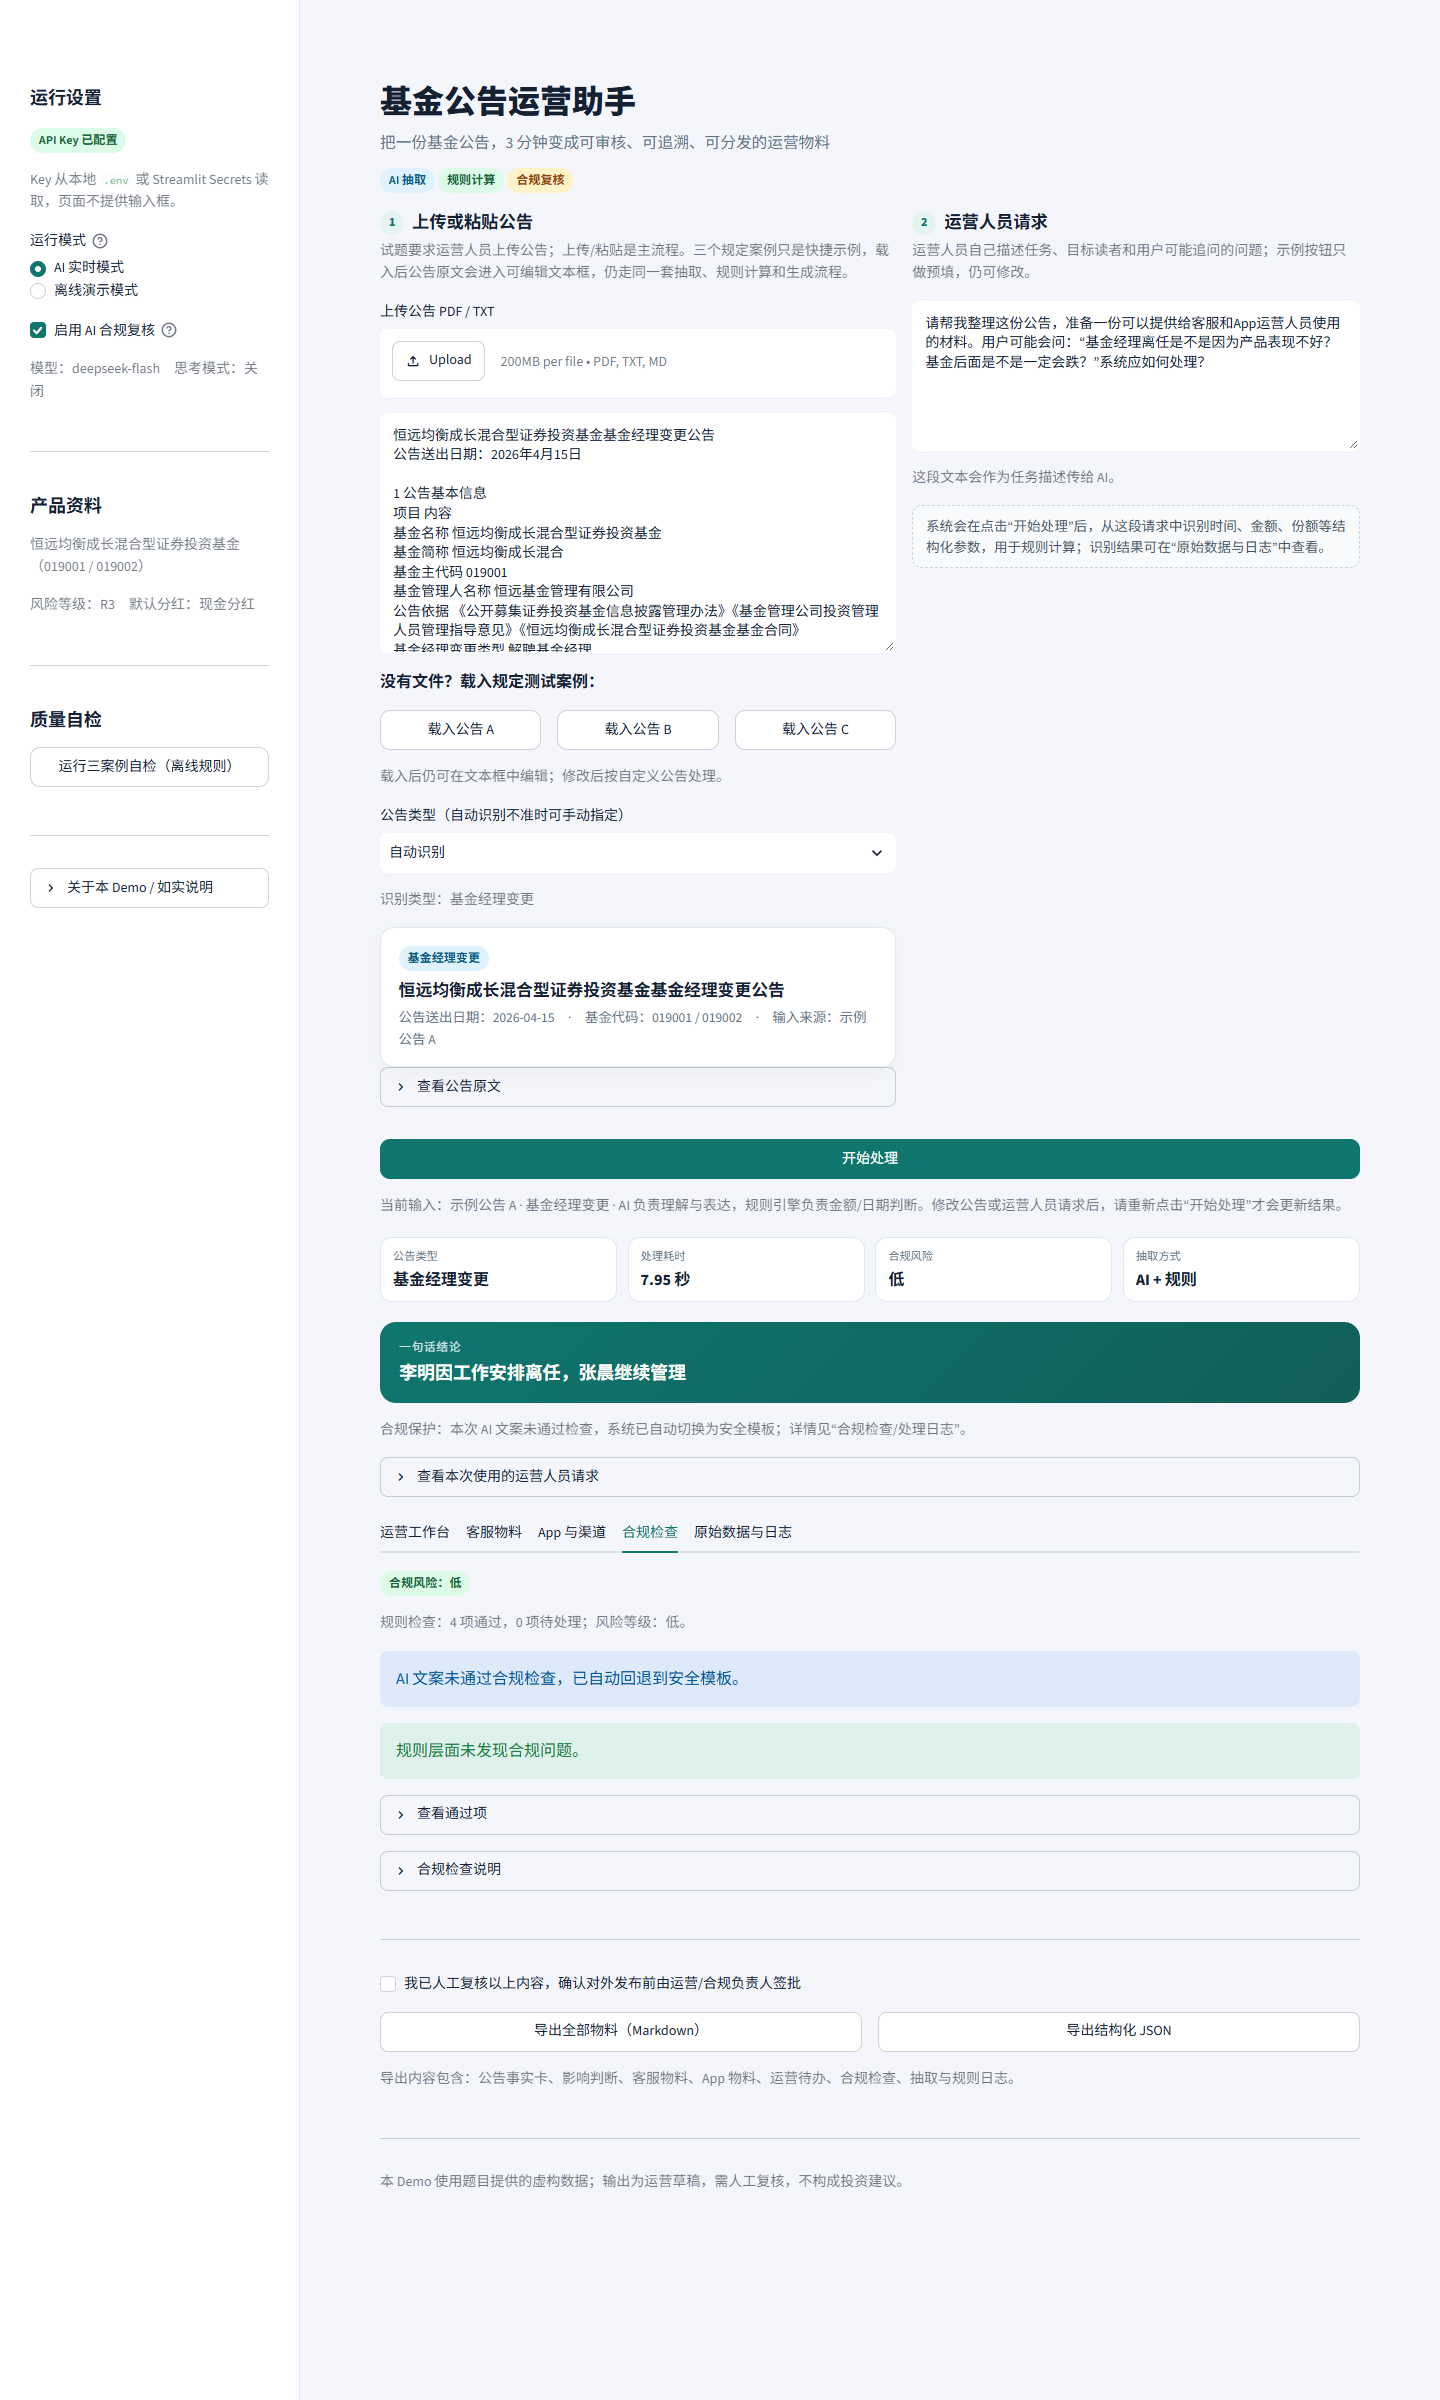
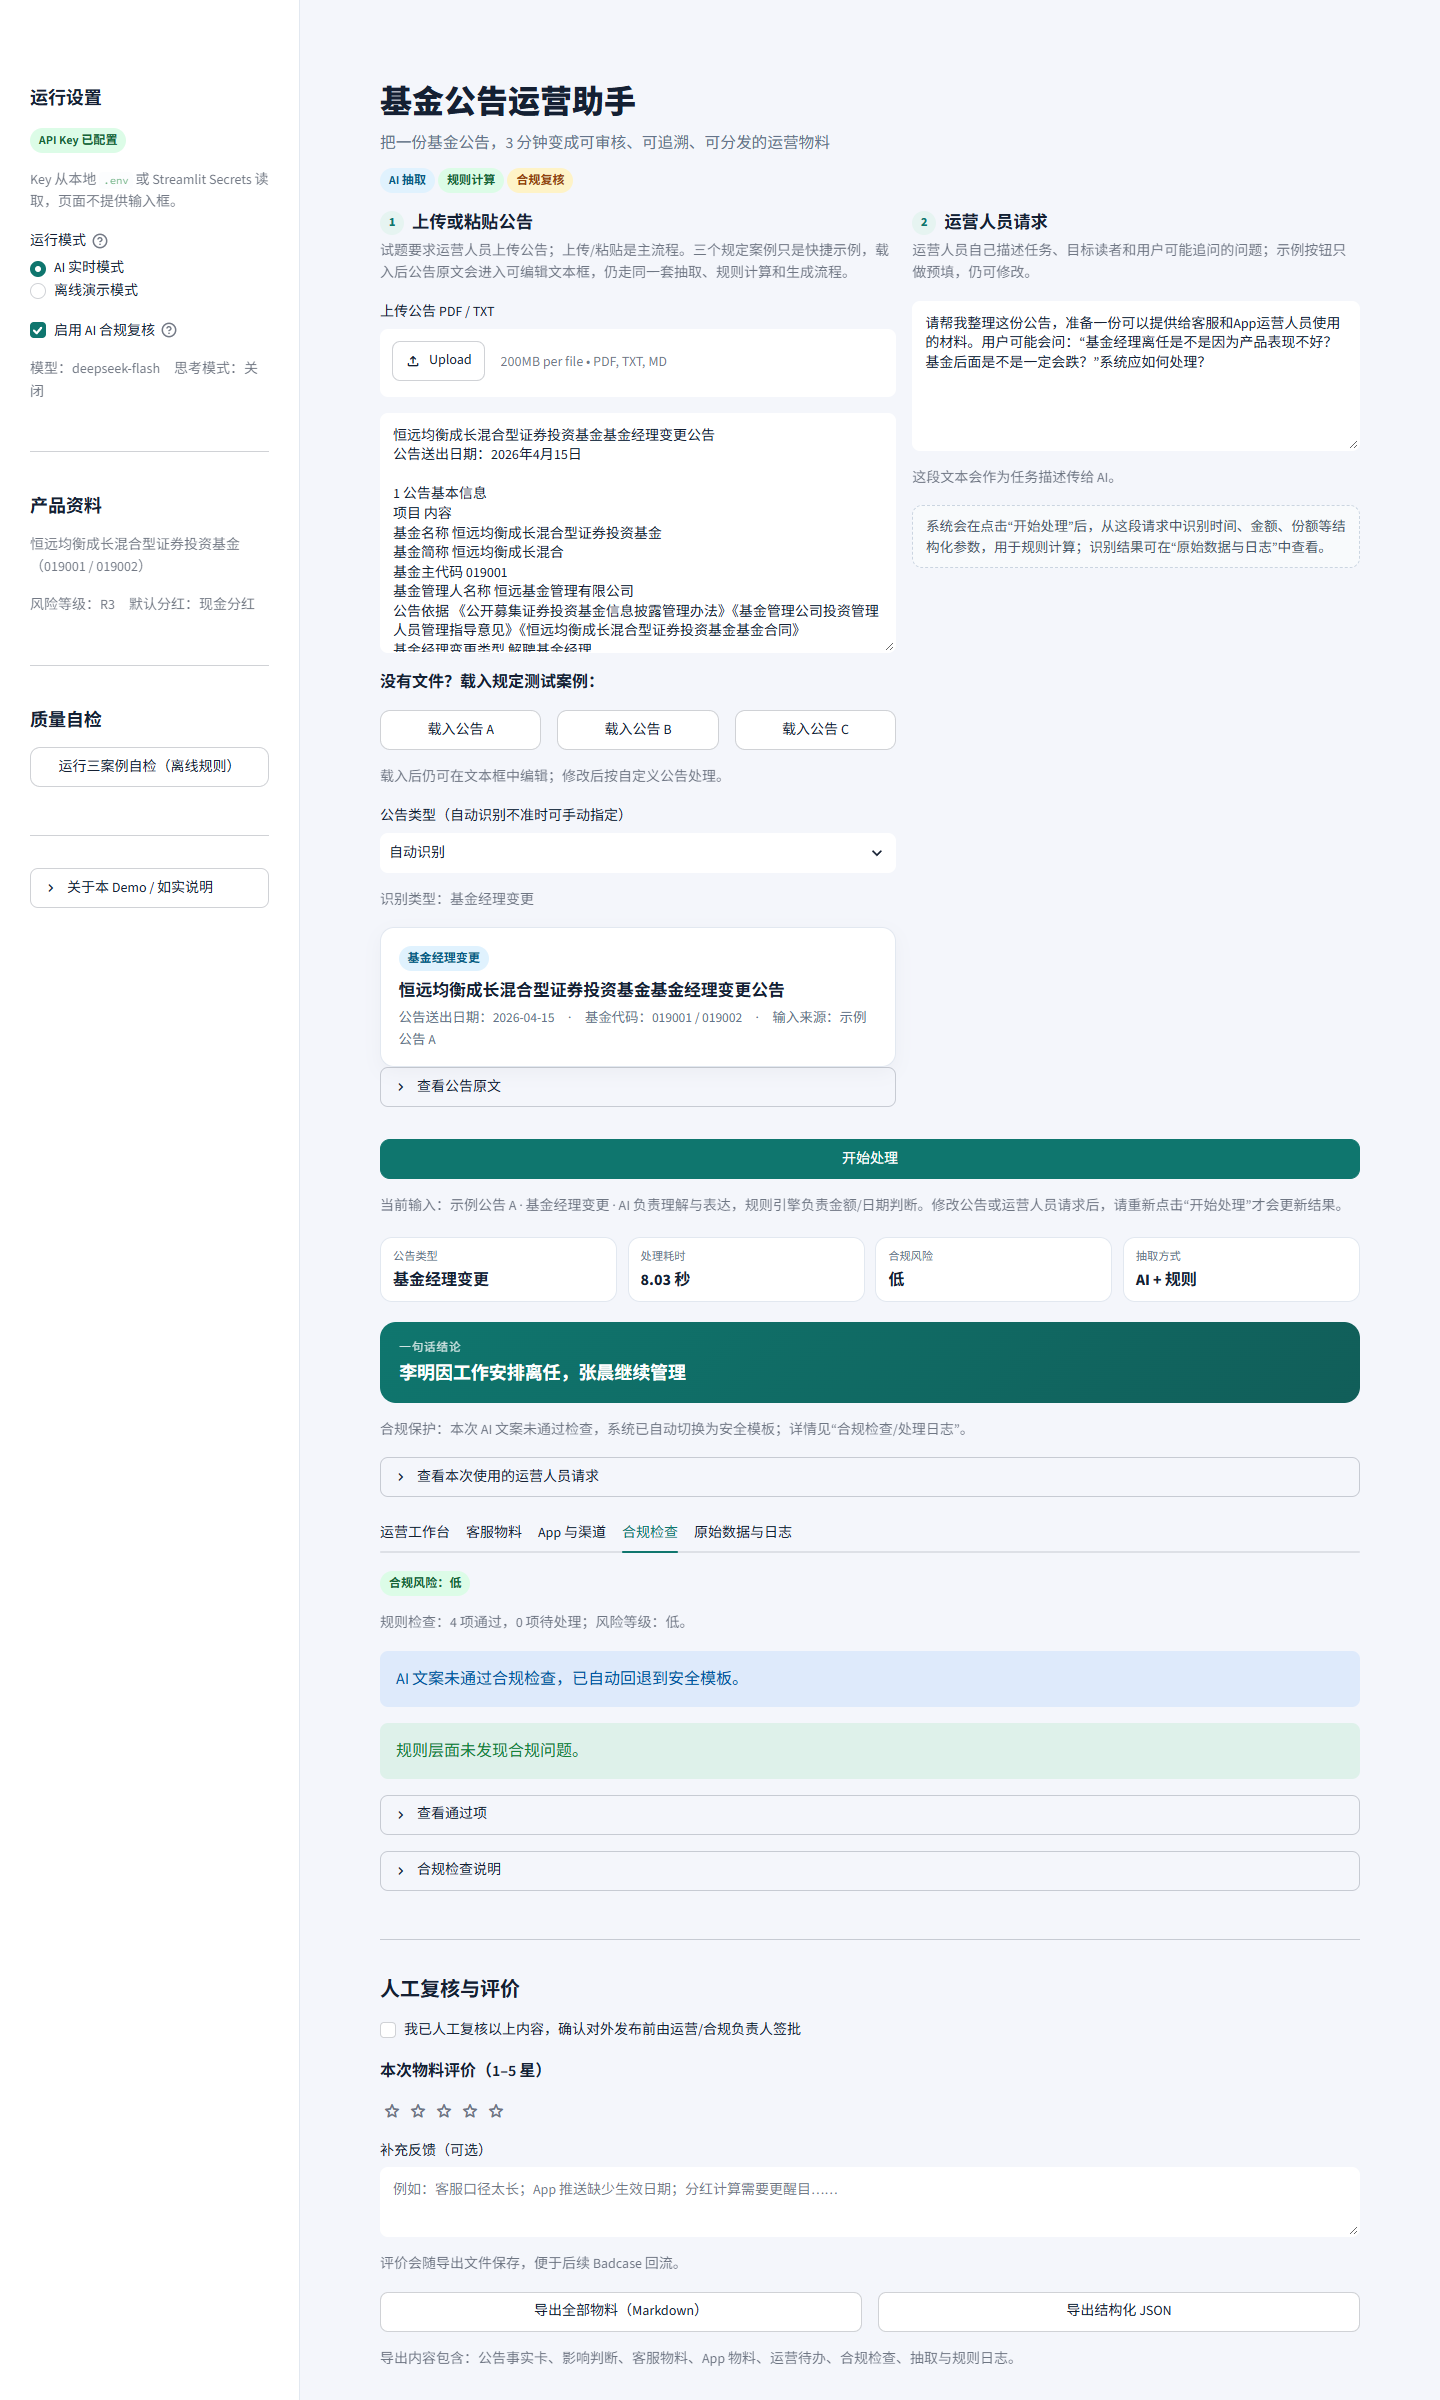
Add human review feedback (1-5 stars + comment)

diff --git a/docs/design.html b/docs/design.html
@@ -478,6 +478,7 @@
 <ul>
 <li>所有输出标注“运营草稿”，必须人工复核</li>
 <li>页面提供“我已人工复核”勾选，导出文件记录复核状态</li>
+<li>页面提供“人工复核与评价”：1–5 星物料评分 + 补充反馈，随导出文件保存，作为后续 Badcase 回流的信号</li>
 <li>合规风险为“高”时自动回退安全模板，并在页面与日志说明</li>
 <li>导出 Markdown/JSON，保留事实卡、规则过程、合规检查、模型用量，便于复盘</li>
 </ul>
@@ -834,7 +835,7 @@
 <li>离线模式：规则抽取 + 安全模板，可复现，不调用大模型</li>
 </ul>
 <h3 id="63-badcase">6.3 Badcase 回流（规划）</h3>
-<p>把“审核”变成“标注”：运营人员每次采纳（点赞）或打回（点踩）都是训练信号，回流后用于更新话术库、规则库与抽取模板，实现模型/规则的持续迭代。本 Demo 尚未实现该闭环。</p>
+<p>把“审核”变成“标注”：运营人员每次采纳（点赞）或打回（点踩）都是训练信号，回流后用于更新话术库、规则库与抽取模板，实现模型/规则的持续迭代。当前 Demo 已支持人工 1–5 星评分和补充反馈随导出文件保存；自动回流到优化池尚未实现。</p>
 <p>金融场景用户/投资者对 AI 首次出错极易流失信任，因此高风险问题强制人工、低置信转人工，本质是把“AI 不完美”用产品设计兜住，而非让用户承担错误成本。</p>
 <h2 id="7">7. 技术实现</h2>
 <h3 id="71">7.1 架构</h3>

diff --git a/app.py b/app.py
@@ -529,6 +529,8 @@ def build_export_markdown(
     app_title: str,
     app_body: str,
     reviewed: bool,
+    rating: int | None,
+    feedback_text: str,
 ) -> str:
     case = result["case"]
     announcement = result["announcement"]
@@ -536,6 +538,7 @@ def build_export_markdown(
     materials = result["materials"]
     compliance = result["compliance"]
     meta = result["meta"]
+    rating_label = "未评价" if rating is None else f"{rating + 1} 星"
 
     lines: list[str] = []
     lines.append(f"# 基金公告运营物料：{case['title']}")
@@ -641,6 +644,13 @@ def build_export_markdown(
     lines.append(f"- 总耗时：{meta.get('timings', {}).get('total_s', '')} 秒")
     lines.append(f"- 抽取耗时：{meta.get('timings', {}).get('extraction_s', '')} 秒")
     lines.append(f"- 生成耗时：{meta.get('timings', {}).get('generation_s', '')} 秒")
+    lines.append("")
+    lines.append("## 人工复核与评价")
+    lines.append("")
+    lines.append(f"- 复核状态：{'已完成' if reviewed else '未完成'}")
+    lines.append(f"- 物料评分：{rating_label}")
+    if feedback_text.strip():
+        lines.append(f"- 补充反馈：{feedback_text.strip()}")
     lines.append("")
     lines.append("---")
     lines.append("")
@@ -888,10 +898,25 @@ def render_result(result: dict, case_id: str) -> None:
             st.json(conflicts)
 
     st.divider()
+    st.markdown("##### 人工复核与评价")
     reviewed = st.checkbox(
         "我已人工复核以上内容，确认对外发布前由运营/合规负责人签批",
         key=f"reviewed_{case_id}_{run_id}",
     )
+    st.markdown("**本次物料评价（1–5 星）**")
+    rating = st.feedback("stars", key=f"feedback_{case_id}_{run_id}")
+    feedback_text = st.text_area(
+        "补充反馈（可选）",
+        key=f"feedback_text_{case_id}_{run_id}",
+        height=90,
+        placeholder="例如：客服口径太长；App 推送缺少生效日期；分红计算需要更醒目……",
+    )
+    rating_label = "未评价" if rating is None else f"{rating + 1} 星"
+    if rating is None:
+        st.caption("评价会随导出文件保存，便于后续 Badcase 回流。")
+    else:
+        st.caption(f"本次物料评价：{rating_label}　·　评价会随导出文件保存，便于后续 Badcase 回流。")
+
     export_md = build_export_markdown(
         result,
         cs_short_val,
@@ -899,6 +924,8 @@ def render_result(result: dict, case_id: str) -> None:
         app_title_val,
         app_body_val,
         reviewed,
+        rating,
+        feedback_text,
     )
     export_json = {
         **result,
@@ -909,6 +936,11 @@ def render_result(result: dict, case_id: str) -> None:
             "app_push": {"title": app_title_val, "body": app_body_val},
         },
         "human_reviewed": reviewed,
+        "human_feedback": {
+            "rating": rating,
+            "rating_label": rating_label,
+            "comment": feedback_text,
+        },
     }
     c1, c2 = st.columns(2)
     with c1:

diff --git a/docs/design.md b/docs/design.md
@@ -133,6 +133,7 @@
 
 - 所有输出标注“运营草稿”，必须人工复核
 - 页面提供“我已人工复核”勾选，导出文件记录复核状态
+- 页面提供“人工复核与评价”：1–5 星物料评分 + 补充反馈，随导出文件保存，作为后续 Badcase 回流的信号
 - 合规风险为“高”时自动回退安全模板，并在页面与日志说明
 - 导出 Markdown/JSON，保留事实卡、规则过程、合规检查、模型用量，便于复盘
 
@@ -332,7 +333,7 @@
 
 ### 6.3 Badcase 回流（规划）
 
-把“审核”变成“标注”：运营人员每次采纳（点赞）或打回（点踩）都是训练信号，回流后用于更新话术库、规则库与抽取模板，实现模型/规则的持续迭代。本 Demo 尚未实现该闭环。
+把“审核”变成“标注”：运营人员每次采纳（点赞）或打回（点踩）都是训练信号，回流后用于更新话术库、规则库与抽取模板，实现模型/规则的持续迭代。当前 Demo 已支持人工 1–5 星评分和补充反馈随导出文件保存；自动回流到优化池尚未实现。
 
 金融场景用户/投资者对 AI 首次出错极易流失信任，因此高风险问题强制人工、低置信转人工，本质是把“AI 不完美”用产品设计兜住，而非让用户承担错误成本。
 

diff --git a/README.md b/README.md
@@ -23,6 +23,7 @@
 - 事实卡、原文引用、缺失信息、影响范围、后续跟踪
 - 合规检查、安全回退、人工复核、Markdown/JSON 导出
 - AI 合规复核默认开启，可手动关闭
+- 人工复核与评价：1–5 星评分 + 补充反馈，随导出文件保存
 - AI 实时模式 / 离线演示模式
 - 模型：DeepSeek V4.1 Flash（`deepseek-flash`），默认关闭思考模式
 
